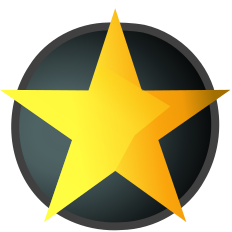
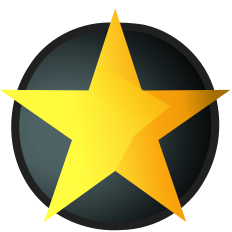
show grey off-state arrows on Rush Duel link badge

diff --git a/index.css b/index.css
@@ -957,8 +957,13 @@ Spell, Trap, Monster, Pendulum, card effect is long or short */
 }
 
 /* shifts link badge down so the link number sits at vertical center */
+#Rush_LinkBadge_Off,
 #Rush_LinkBadge {
   bottom: -8px;
+}
+
+#Rush_LinkBadge_Off {
+  opacity: 0.75;
 }
 
 /* card-sized SVG overlay with curved "LEVEL"/"RANK"/"LINK" text */
@@ -998,19 +1003,19 @@ Spell, Trap, Monster, Pendulum, card effect is long or short */
 .cRushWhiteNumberGrayOutline {
   color: white;
   text-shadow:
-    -4px -4px 0 #404040,
-    4px -4px 0 #404040,
-    -4px 4px 0 #404040,
-    4px 4px 0 #404040;
+    -4px -4px 0 #202020,
+    4px -4px 0 #202020,
+    -4px 4px 0 #202020,
+    4px 4px 0 #202020;
 }
 /* text color for number on the link star */
 .cRushWhiteNumberBlueOutline {
   color: white;
   text-shadow:
-    -4px -4px 0 darkblue,
-    4px -4px 0 darkblue,
-    -4px 4px 0 darkblue,
-    4px 4px 0 darkblue;
+    -4px -4px 0 #004687,
+    4px -4px 0 #004687,
+    -4px 4px 0 #004687,
+    4px 4px 0 #004687;
 }
 
 /* text color for ATK DEF */

diff --git a/index.html b/index.html
@@ -369,6 +369,8 @@
               <!-- - if MonsterXyz then icon/Rush_StarRank.png -->
               <!-- - if Spell/Trap then Rush_Level hidden      -->
               <img id="Rush_LevelStar" class="cRush_LevelStar db" src="icon/Rush_StarLevel.png" />
+              <!-- Grey off-state arrows; shown behind Rush_LinkBadge when card is a Link monster -->
+              <img id="Rush_LinkBadge_Off" class="cRush_LevelStar db" style="display: none" src="icon/Rush_StarLink_off.svg" alt="" />
               <!-- Inline copy of icon/Rush_StarLink.svg.
                    Edit the SVG file first, then paste updated content here. -->
               <svg id="Rush_LinkBadge" class="cRush_LevelStar db" style="display: none" viewBox="0 0 200 200" xmlns="http://www.w3.org/2000/svg">

diff --git a/index.js b/index.js
@@ -1115,9 +1115,11 @@ function renderRushDuelLevel(card) {
 	let isLink = card.CardSubtype === CardSubtype.MonsterLink
 	if (isLink) {
 		byId("Rush_LevelStar").style.display = "none"
+		byId("Rush_LinkBadge_Off").style.display = ""
 		byId("Rush_LinkBadge").style.display = ""
 	} else {
 		byId("Rush_LevelStar").style.display = ""
+		byId("Rush_LinkBadge_Off").style.display = "none"
 		byId("Rush_LinkBadge").style.display = "none"
 	}
 	if (card.CardSubtype === CardSubtype.MonsterXyz) {
